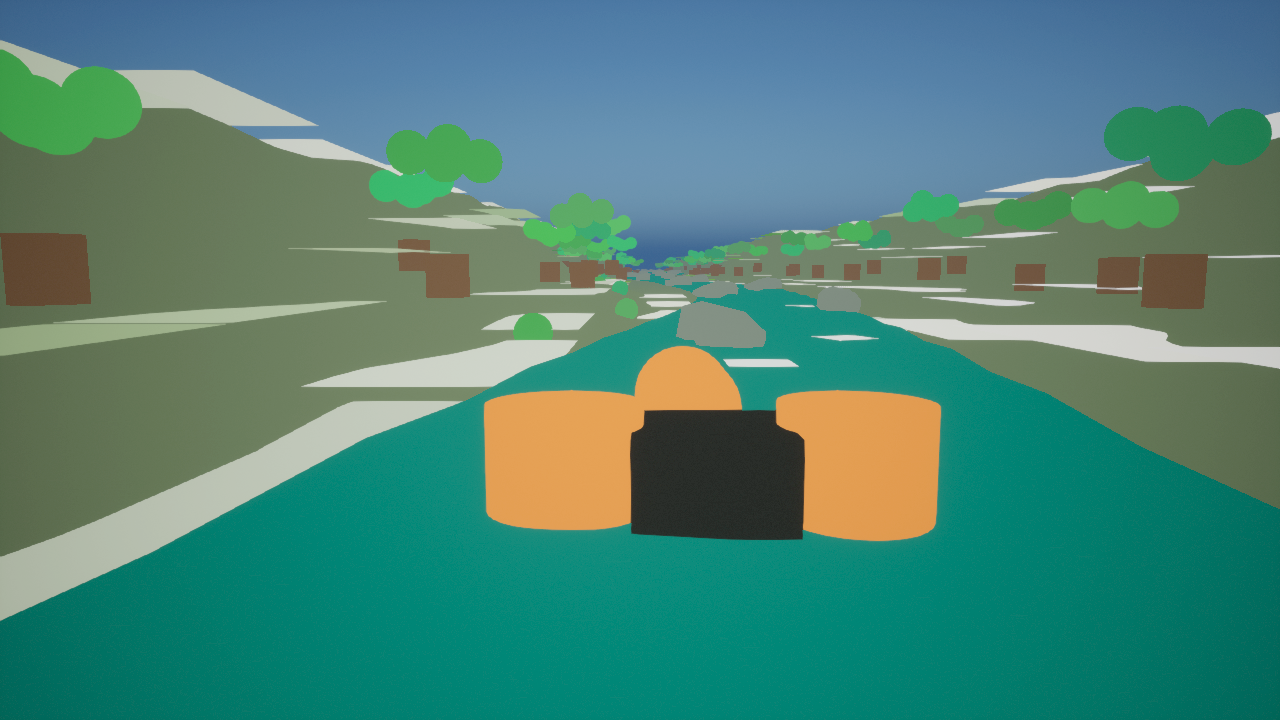
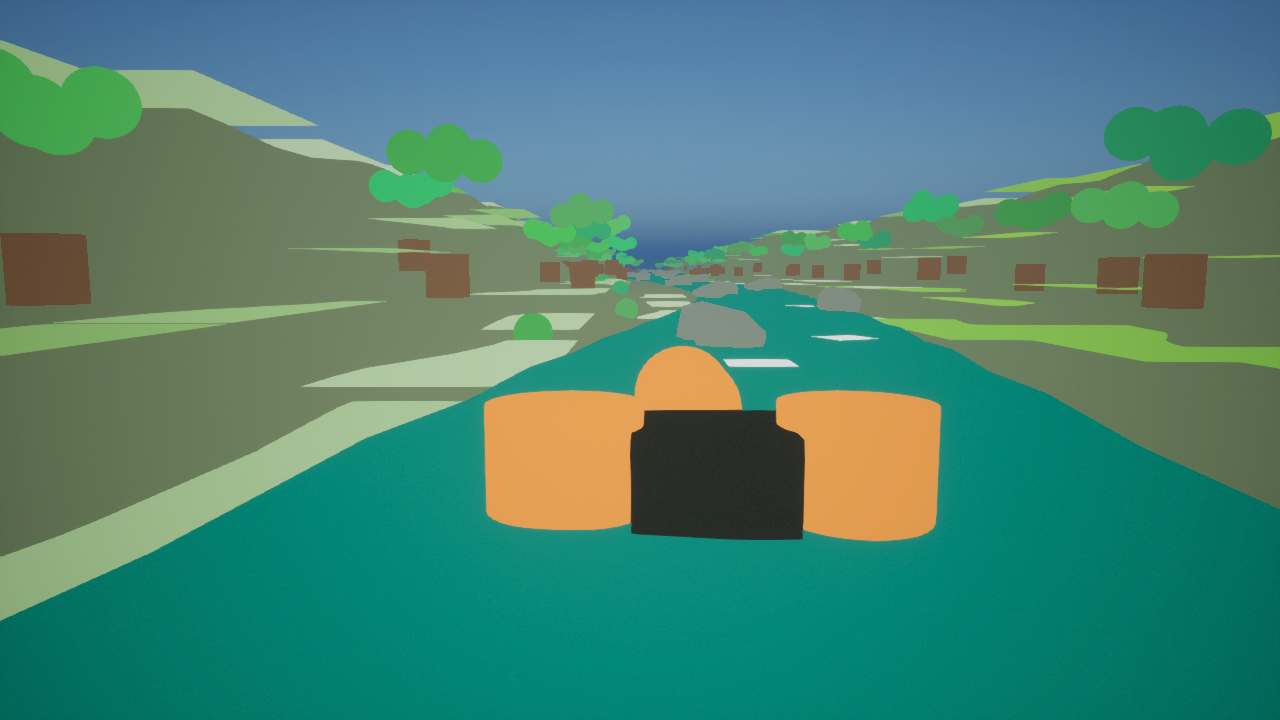
Add Pacuare DEM-shaded source drape

diff --git a/physics/src/raftsim/geospatial_preview.py b/physics/src/raftsim/geospatial_preview.py
@@ -1,0 +1,184 @@
+"""Small deterministic geospatial preview helpers for source-derived Unreal drapes."""
+
+from __future__ import annotations
+
+import argparse
+import json
+from dataclasses import dataclass
+from pathlib import Path
+
+import numpy as np
+from PIL import Image
+
+
+@dataclass(frozen=True)
+class BoundsWgs84:
+    min_lon: float
+    min_lat: float
+    max_lon: float
+    max_lat: float
+
+
+@dataclass(frozen=True)
+class CopernicusTile:
+    path: Path
+    south_lat: int
+    west_lon: int
+
+    @property
+    def north_lat(self) -> int:
+        return self.south_lat + 1
+
+    @property
+    def east_lon(self) -> int:
+        return self.west_lon + 1
+
+
+def _load_float_tiff(path: Path) -> np.ndarray:
+    with Image.open(path) as image:
+        return np.asarray(image, dtype=np.float32)
+
+
+def _sample_tile_nearest(tile: CopernicusTile, data: np.ndarray, lon: np.ndarray, lat: np.ndarray) -> np.ndarray:
+    height, width = data.shape
+    col = np.clip(((lon - tile.west_lon) / (tile.east_lon - tile.west_lon) * (width - 1)).round(), 0, width - 1)
+    row = np.clip(((tile.north_lat - lat) / (tile.north_lat - tile.south_lat) * (height - 1)).round(), 0, height - 1)
+    return data[row.astype(np.int32), col.astype(np.int32)]
+
+
+def sample_copernicus_dem(
+    southern_tile: CopernicusTile,
+    northern_tile: CopernicusTile,
+    bounds: BoundsWgs84,
+    size: int,
+) -> np.ndarray:
+    """Sample the two Pacuare GLO-30 tiles into a small north-up preview grid."""
+
+    south_data = _load_float_tiff(southern_tile.path)
+    north_data = _load_float_tiff(northern_tile.path)
+
+    xs = np.linspace(bounds.min_lon, bounds.max_lon, size, dtype=np.float32)
+    ys = np.linspace(bounds.max_lat, bounds.min_lat, size, dtype=np.float32)
+    lon, lat = np.meshgrid(xs, ys)
+
+    sampled = np.empty((size, size), dtype=np.float32)
+    north_mask = lat >= float(northern_tile.south_lat)
+    sampled[north_mask] = _sample_tile_nearest(northern_tile, north_data, lon[north_mask], lat[north_mask])
+    sampled[~north_mask] = _sample_tile_nearest(southern_tile, south_data, lon[~north_mask], lat[~north_mask])
+    return sampled
+
+
+def _normalized_relief(dem: np.ndarray) -> tuple[np.ndarray, np.ndarray]:
+    finite = np.isfinite(dem)
+    low, high = np.percentile(dem[finite], [2.0, 98.0])
+    height = np.clip((dem - low) / max(1.0, high - low), 0.0, 1.0)
+
+    grad_y, grad_x = np.gradient(dem)
+    slope = np.sqrt(grad_x * grad_x + grad_y * grad_y)
+    slope_high = np.percentile(slope[np.isfinite(slope)], 97.0)
+    slope_norm = np.clip(slope / max(1.0, slope_high), 0.0, 1.0)
+
+    light = np.clip(0.62 + (-grad_x * 0.0025) + (-grad_y * 0.0035), 0.32, 0.94)
+    relief = np.clip(light * (0.82 + height * 0.24) - slope_norm * 0.10, 0.0, 1.0)
+    return height, relief
+
+
+def build_pacuare_demshade_drape(
+    nasa_truecolor_path: Path,
+    southern_dem_path: Path,
+    northern_dem_path: Path,
+    output_png_path: Path,
+    output_manifest_path: Path,
+    bounds: BoundsWgs84,
+    selected_date: str,
+    repo_root: Path | None = None,
+) -> None:
+    """Blend NASA true color with DEM-derived rainforest relief for preview-only draping."""
+
+    with Image.open(nasa_truecolor_path) as image:
+        source = image.convert("RGBA").resize((512, 512), Image.Resampling.BILINEAR)
+    source_rgb = np.asarray(source, dtype=np.float32)[..., :3] / 255.0
+    source_alpha = np.asarray(source, dtype=np.float32)[..., 3:4] / 255.0
+
+    dem = sample_copernicus_dem(
+        CopernicusTile(southern_dem_path, south_lat=9, west_lon=-84),
+        CopernicusTile(northern_dem_path, south_lat=10, west_lon=-84),
+        bounds,
+        512,
+    )
+    height, relief = _normalized_relief(dem)
+
+    brightness = source_rgb.mean(axis=2)
+    color_range = source_rgb.max(axis=2) - source_rgb.min(axis=2)
+    cloud_mask = (brightness > 0.70) & (color_range < 0.16)
+
+    forest_low = np.array([0.05, 0.20, 0.08], dtype=np.float32)
+    forest_high = np.array([0.20, 0.36, 0.13], dtype=np.float32)
+    forest = forest_low + (forest_high - forest_low) * relief[..., None]
+    ridge_warmth = np.array([0.09, 0.06, 0.02], dtype=np.float32) * height[..., None]
+    dem_rgb = np.clip(forest + ridge_warmth, 0.0, 1.0)
+
+    non_cloud = np.clip(source_rgb * 0.45 + dem_rgb * 0.55, 0.0, 1.0)
+    blended = np.where(cloud_mask[..., None], dem_rgb, non_cloud)
+    rgba = np.dstack((blended, source_alpha))
+
+    output_png_path.parent.mkdir(parents=True, exist_ok=True)
+    Image.fromarray(np.clip(rgba * 255.0, 0, 255).astype(np.uint8), mode="RGBA").save(output_png_path)
+
+    def manifest_path(path: Path) -> str:
+        if repo_root is None:
+            return str(path)
+        return str(path.resolve().relative_to(repo_root.resolve()))
+
+    manifest = {
+        "schema": "raftsim.pacuare_source_drape_composite.v1",
+        "status": "generated_preview_only_not_production_photoreal",
+        "bounds_wgs84": {
+            "min_lon": bounds.min_lon,
+            "min_lat": bounds.min_lat,
+            "max_lon": bounds.max_lon,
+            "max_lat": bounds.max_lat,
+        },
+        "inputs": {
+            "nasa_gibs_truecolor": manifest_path(nasa_truecolor_path),
+            "nasa_gibs_selected_date": selected_date,
+            "copernicus_dem_glo30_southern_tile": manifest_path(southern_dem_path),
+            "copernicus_dem_glo30_northern_tile": manifest_path(northern_dem_path),
+        },
+        "output": manifest_path(output_png_path),
+        "processing": {
+            "size_px": 512,
+            "dem_sampling": "nearest_neighbor_from_copernicus_glo30_tiles",
+            "cloud_mask": "truecolor brightness > 0.70 and channel range < 0.16",
+            "blend": "non_cloud = 45% NASA truecolor + 55% DEM rainforest relief; cloud = DEM rainforest relief",
+        },
+        "caveats": [
+            "Preview composite is a deterministic source-derived drape, not a production orthomosaic.",
+            "Cloud-filled areas are DEM-derived rainforest relief placeholders and must be replaced by higher-resolution cloud-screened imagery before photoreal approval.",
+            "DEM tiles are not yet clipped, reprojected, hydrologically conditioned, or imported as Unreal heightfields.",
+        ],
+    }
+    output_manifest_path.write_text(json.dumps(manifest, indent=2) + "\n", encoding="utf-8")
+
+
+def main() -> None:
+    parser = argparse.ArgumentParser(description="Build Pacuare source-derived DEM-shaded preview drape.")
+    parser.add_argument("--repo-root", type=Path, default=Path.cwd())
+    args = parser.parse_args()
+
+    repo_root = args.repo_root.resolve()
+    pacuare_root = repo_root / "physics/data/real_world/pacuare_river_costa_rica"
+    build_pacuare_demshade_drape(
+        nasa_truecolor_path=pacuare_root / "imagery/nasa_gibs_pacuare_truecolor_2025-04-02_512.png",
+        southern_dem_path=pacuare_root / "terrain/copernicus_dem_glo30_N09_W084.tif",
+        northern_dem_path=pacuare_root / "terrain/copernicus_dem_glo30_N10_W084.tif",
+        output_png_path=pacuare_root / "imagery/pacuare_nasa_gibs_2025-04-02_demshade_source_drape_512.png",
+        output_manifest_path=pacuare_root / "imagery/pacuare_source_drape_composite_manifest.json",
+        bounds=BoundsWgs84(min_lon=-83.75, min_lat=9.72, max_lon=-83.42, max_lat=10.12),
+        selected_date="2025-04-02",
+        repo_root=repo_root,
+    )
+
+
+if __name__ == "__main__":
+    main()

diff --git a/unreal/Plugins/RaftSim/Source/RaftSimEditor/Private/RaftSimEditorModule.cpp b/unreal/Plugins/RaftSim/Source/RaftSimEditor/Private/RaftSimEditorModule.cpp
@@ -235,11 +235,11 @@ TArray<FRaftSimEnvironmentPreviewSpec> GetEnvironmentPreviewSpecs()
     Pacuare.MapPackagePath = TEXT("/Game/RaftSim/Maps/EnvironmentPreviews/L_PacuareRainforest_PhotorealPreview");
     Pacuare.SourceManifest = TEXT("physics/data/real_world/pacuare_river_costa_rica/source_manifest.json");
     Pacuare.AerialDrapeImage =
-        TEXT("physics/data/real_world/pacuare_river_costa_rica/imagery/nasa_gibs_pacuare_truecolor_2025-04-02_512.png");
+        TEXT("physics/data/real_world/pacuare_river_costa_rica/imagery/pacuare_nasa_gibs_2025-04-02_demshade_source_drape_512.png");
     Pacuare.ElevationSample =
         TEXT("physics/data/real_world/pacuare_river_costa_rica/terrain/copernicus_dem_glo30_N09_W084.tif; physics/data/real_world/pacuare_river_costa_rica/terrain/copernicus_dem_glo30_N10_W084.tif");
     Pacuare.SourceDrapeDescription =
-        TEXT("official NASA GIBS MODIS/Terra true-color 512px sample, selected from five cloud-screened dates, sampled into visible rainforest terrain overlay tiles; Copernicus DEM GLO-30 public COG tiles recorded for follow-on Pacuare gorge heightfield conditioning; rocks, foliage, water, waterfalls, foam, raft, and lighting remain proxy layers");
+        TEXT("deterministic preview drape generated from the selected official NASA GIBS MODIS/Terra true-color sample and Copernicus DEM GLO-30 relief, with cloud gaps filled by DEM-derived rainforest shading; Copernicus DEM COG tiles remain recorded for follow-on Pacuare gorge heightfield conditioning; rocks, foliage, water, waterfalls, foam, raft, and lighting remain proxy layers");
     Pacuare.WaterColor = FLinearColor(0.03f, 0.24f, 0.19f);
     Pacuare.TerrainColor = FLinearColor(0.17f, 0.22f, 0.13f);
     Pacuare.RockColor = FLinearColor(0.20f, 0.24f, 0.20f);

diff --git a/docs/photoreal-river-environment-production-plan.md b/docs/photoreal-river-environment-production-plan.md
@@ -66,6 +66,7 @@ Initial source slice:
 - `physics/data/real_world/pacuare_river_costa_rica/production_source_pull_manifest.json` records the first Pacuare source pull.
 - Copernicus DEM GLO-30 public COG tiles `N09_00_W084_00` and `N10_00_W084_00` now cover the draft WGS84 bounds. They are source terrain artifacts only; clipping, reprojection, hydrologic conditioning, and Unreal heightfield import remain open.
 - NASA GIBS MODIS/Terra true-color samples were pulled for five dates. The April 2, 2025 sample has the best visible rainforest texture and is used as the coarse Unreal preview drape; the other dates are retained as cloud-screening evidence.
+- `physics/src/raftsim/geospatial_preview.py` now generates a deterministic Pacuare preview drape that blends the selected NASA GIBS image with Copernicus DEM relief, filling cloud gaps with DEM-derived rainforest shading. This improves source-derived preview continuity but is still not production photoreal imagery.
 - OpenTopography SRTMGL1 was probed and returned an API-key requirement, so that path remains available only after key and terms review.
 
 ## Unreal Construction Plan
@@ -93,7 +94,7 @@ Initial source slice:
 - The first South Fork official source slice now exists at `physics/data/real_world/south_fork_american_chili_bar/production_source_pull_manifest.json`: historical USGS `11445500` daily discharge, TNM NHD product metadata, TNM DEM/NAIP zero-hit diagnostics, a small USGS 3DEP GeoTIFF sample, and a small USDA/APFO NAIP aerial sample.
 - The South Fork preview now uses the USDA/APFO NAIP sample as a source-derived visible terrain overlay in Unreal. This proves the imagery-to-editor path, but it is a small smoke-test raster rather than a complete orthomosaic or terrain material pass.
 - The first Colorado/Lees Ferry official source slice now exists at `physics/data/real_world/colorado_river_grand_canyon_rowing/production_source_pull_manifest.json`: USGS `09380000` and `09402500` daily discharge histories through July 4, 2026, a small USGS 3DEP GeoTIFF sample, and a small USDA/APFO NAIP aerial sample. The Colorado preview uses that NAIP sample as a source-derived visible canyon terrain overlay.
-- The first Pacuare public/global source slice now exists at `physics/data/real_world/pacuare_river_costa_rica/production_source_pull_manifest.json`: Copernicus DEM GLO-30 public COG tiles for the draft bounds, a NASA GIBS MODIS/Terra April 2, 2025 true-color preview sample selected from five cloud-screened dates, and an OpenTopography API-key gate probe. The Pacuare preview uses the NASA sample as a source-derived visible rainforest terrain overlay.
+- The first Pacuare public/global source slice now exists at `physics/data/real_world/pacuare_river_costa_rica/production_source_pull_manifest.json`: Copernicus DEM GLO-30 public COG tiles for the draft bounds, a NASA GIBS MODIS/Terra April 2, 2025 true-color preview sample selected from five cloud-screened dates, a deterministic NASA-plus-DEM preview drape, and an OpenTopography API-key gate probe. The Pacuare preview uses the derived drape as a source-derived visible rainforest terrain overlay.
 - The preview generator now keeps source provenance out of the rendered guide-seat frame and records it in JSON instead. Foliage proxies use rounded clustered canopies and slimmer trunks rather than cone silhouettes, which improves review readability but is still not production photoreal vegetation.
 - The existing default map path `/Game/RaftSim/Maps/L_RaftSimBoot` has no committed level asset yet.
 - Colorado and Pacuare still need full-corridor geospatial processing, hydrology review, guide review, and rights-cleared field/reference media.
@@ -108,5 +109,5 @@ Initial source slice:
 - Colorado River: `/Game/RaftSim/Maps/EnvironmentPreviews/L_ColoradoGrandCanyon_PhotorealPreview`, capture `docs/environment-captures/photoreal_river_previews/colorado_river_guide_seat_downstream.png`.
 - Colorado source data: `physics/data/real_world/colorado_river_grand_canyon_rowing/production_source_pull_manifest.json` records the initial official pull; `imagery/usda_naip_lees_ferry_sample_512.png` is sampled into visible canyon terrain overlay tiles, and `terrain/usgs_3dep_lees_ferry_sample_256.tif` is recorded for the next canyon heightfield-conditioning pass.
 - Pacuare River: `/Game/RaftSim/Maps/EnvironmentPreviews/L_PacuareRainforest_PhotorealPreview`, capture `docs/environment-captures/photoreal_river_previews/pacuare_guide_seat_downstream.png`.
-- Pacuare source data: `physics/data/real_world/pacuare_river_costa_rica/production_source_pull_manifest.json` records the initial public/global pull; `imagery/nasa_gibs_pacuare_truecolor_2025-04-02_512.png` is sampled into visible rainforest terrain overlay tiles, and `terrain/copernicus_dem_glo30_N09_W084.tif` plus `terrain/copernicus_dem_glo30_N10_W084.tif` are recorded for the next gorge heightfield-conditioning pass.
+- Pacuare source data: `physics/data/real_world/pacuare_river_costa_rica/production_source_pull_manifest.json` records the initial public/global pull; `imagery/pacuare_nasa_gibs_2025-04-02_demshade_source_drape_512.png` is sampled into visible rainforest terrain overlay tiles, and `terrain/copernicus_dem_glo30_N09_W084.tif` plus `terrain/copernicus_dem_glo30_N10_W084.tif` are recorded for the next gorge heightfield-conditioning pass.
 - These captures verify editor automation, camera placement, generated valley terrain meshes, curved river ribbons, foam/hydraulic cue strips, boulder bars, foliage proxies, and per-river light/fog variants. They must be replaced by source-derived or rights-cleared photoreal passes before the goal is complete.

diff --git a/TODO.md b/TODO.md
@@ -933,6 +933,7 @@ This milestone turns the three runnable river targets into complete, reviewable,
 - [x] Attach the first official Colorado/Lees Ferry production source slice: USGS 09380000 and 09402500 daily discharge histories, a small USGS 3DEP GeoTIFF sample, and a small USDA/APFO NAIP aerial sample are recorded in `physics/data/real_world/colorado_river_grand_canyon_rowing/production_source_pull_manifest.json` and wired into the Unreal preview overlay path.
 - [x] Attach the first Pacuare production source slice: Copernicus DEM GLO-30 public tiles for the draft bounds, a NASA GIBS MODIS/Terra true-color cloud-screened preview sample, retained cloudy candidate samples, and an OpenTopography API-key gate probe are recorded in `physics/data/real_world/pacuare_river_costa_rica/production_source_pull_manifest.json` and wired into the Unreal preview overlay path.
 - [x] Improve the generated preview dressing by removing in-world provenance labels from guide-seat captures, replacing cone-style tree proxies with clustered rounded foliage, slimming trunks, softening understory, and preserving provenance only in the capture/source manifests. This is a cleaner review preview, not final photoreal foliage.
+- [x] Add a deterministic Pacuare geospatial preview utility that combines the selected NASA GIBS true-color image with Copernicus DEM GLO-30 relief into `imagery/pacuare_nasa_gibs_2025-04-02_demshade_source_drape_512.png`, records the processing manifest, and uses that source-derived drape in the Unreal Pacuare preview.
 - [ ] Pull or attach reviewed production geospatial source data: DEM/lidar, hydrography, aerial/satellite imagery, water/vegetation masks, flow/gauge/rainfall history, protected-area/access context, and guide/media annotation references.
 - [ ] Replace proxy terrain, banks, rocks, foliage, water materials, foam/spray/mist, wetness, and lighting with source-derived or rights-cleared assets until screenshots read as lifelike without hiding hazards or rescue targets.
 - [ ] Add or license production-quality river environment asset packs/materials, or generate approved first-party procedural equivalents, for canyon walls, riverbeds, wet boulders, shore vegetation, tropical canopy, foam/spray/mist, raft foreground, and river-specific atmospheric lighting.
